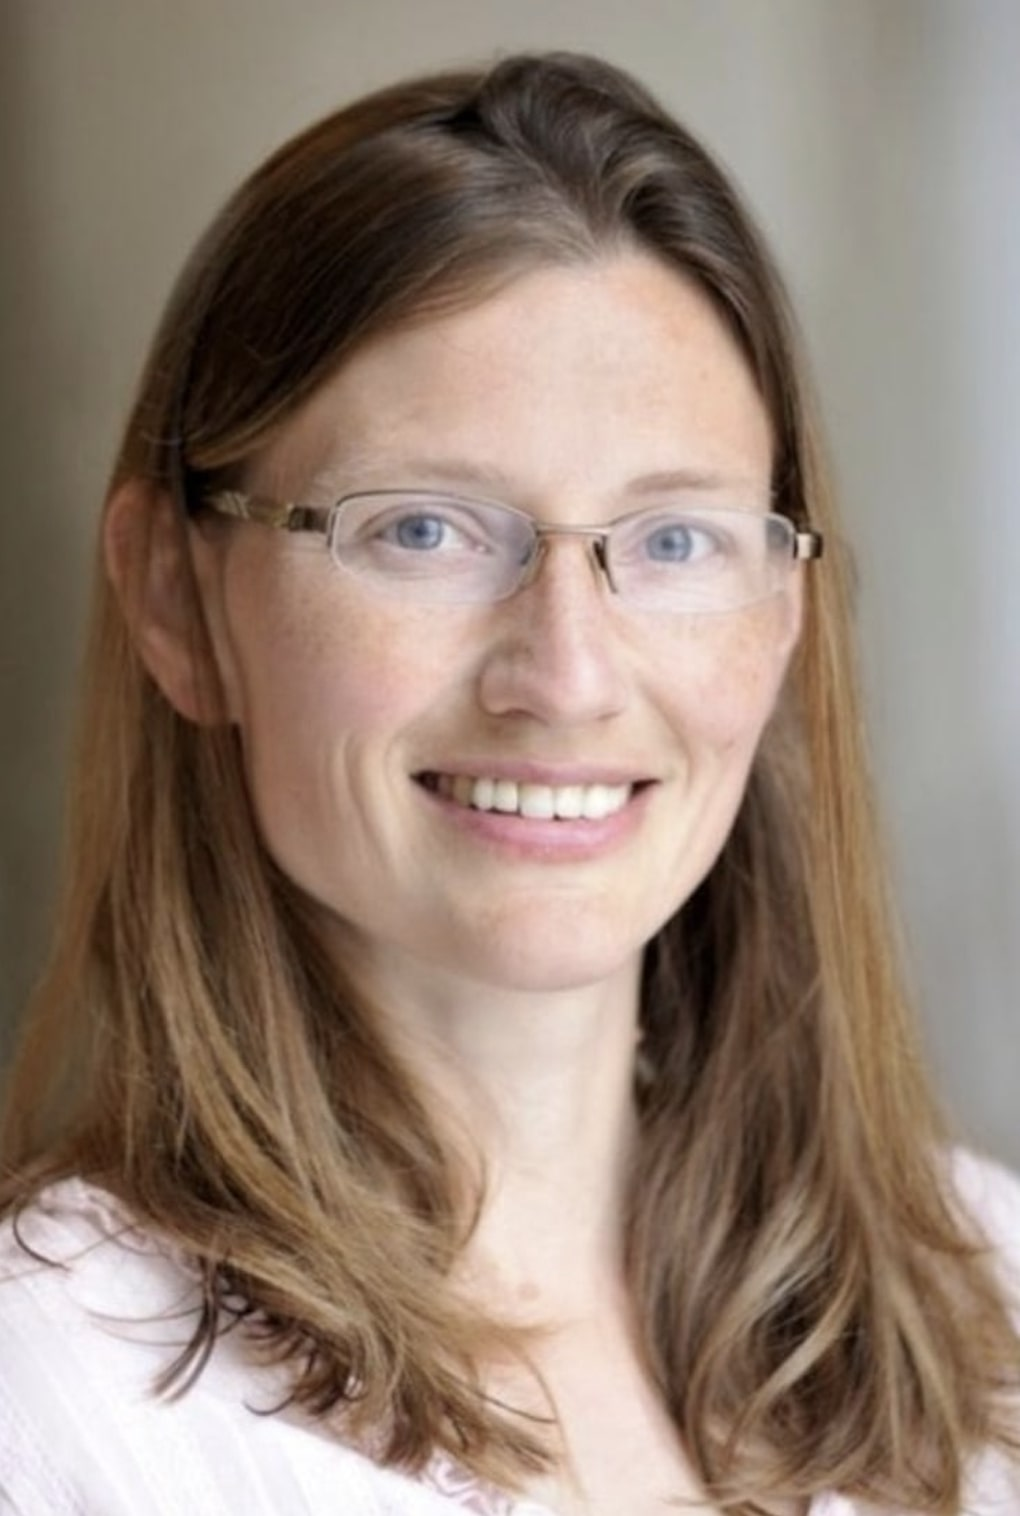
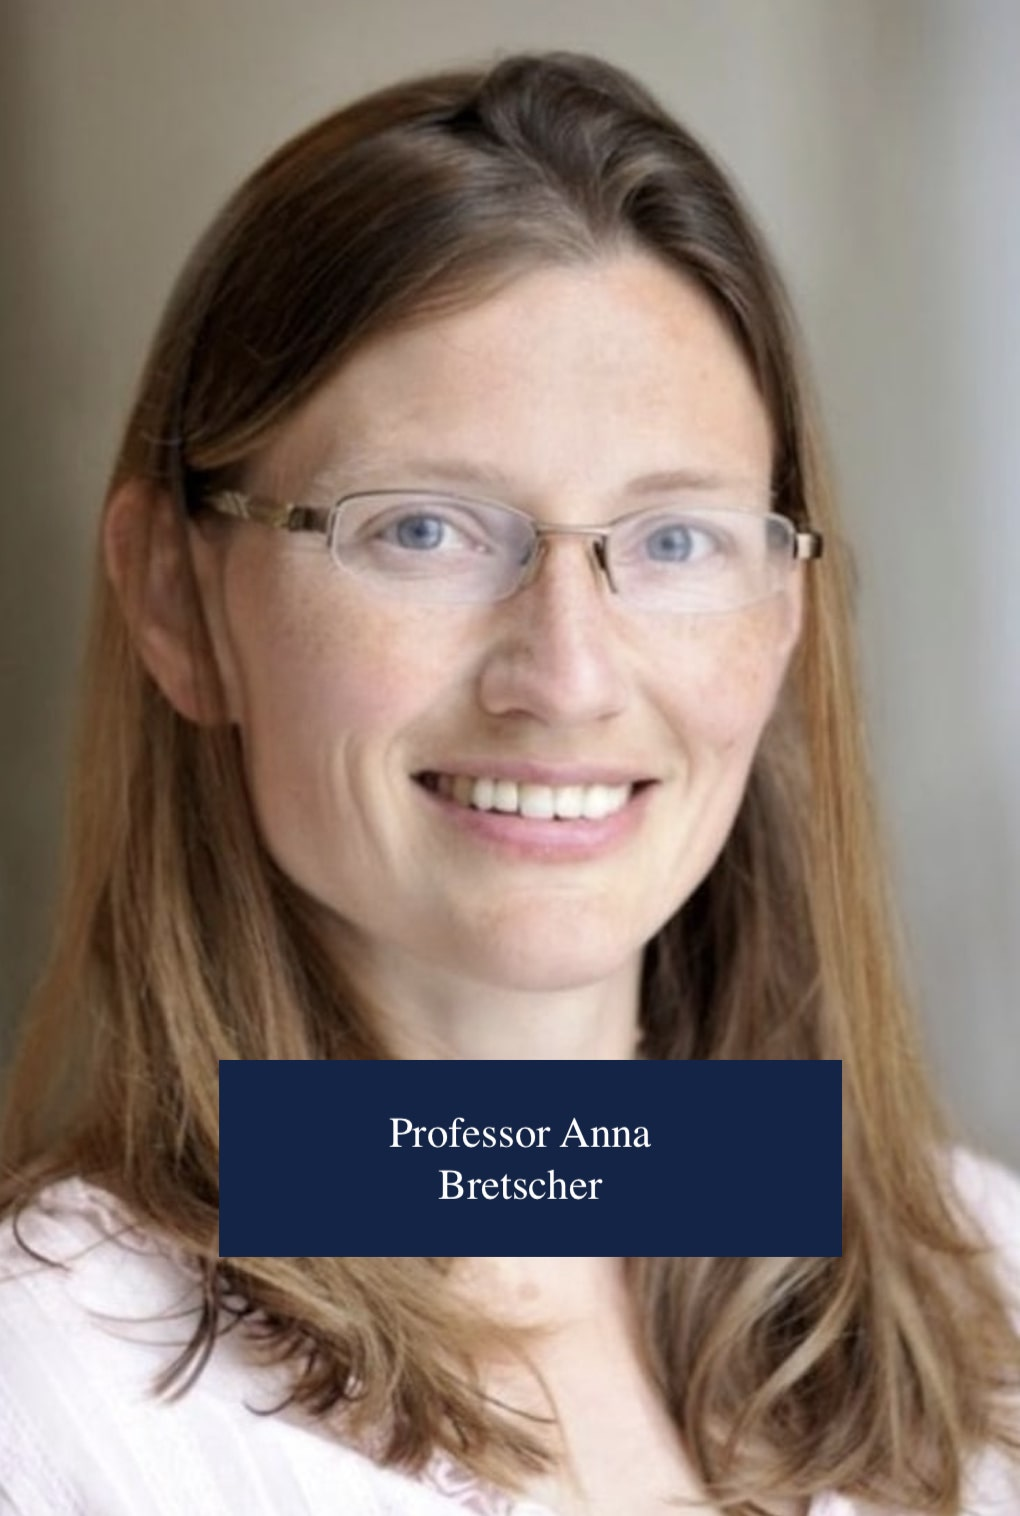
descr

Changed region(s): [[0.2127, 0.6821, 0.851, 0.8371]]

diff --git a/Assignment2/src/m.css b/Assignment2/src/m.css
@@ -128,7 +128,24 @@ body {
 }
 
 
+.div2{
+    background-color: #e3effa;
+    padding: 5px;
+    height: 600px;
+    width: 400px;
+    border-radius: 30px;
+    box-shadow: 0px 0px 10px rgba(0, 0, 0, 0.1);
+    display: inline-block;
 
+}
+
+.div2 > h1 {
+    text-align: center;
+}
+
+.div2 > p {
+    text-align: center;
+}
 
 
 

diff --git a/Assignment2/src/team.html b/Assignment2/src/team.html
@@ -46,6 +46,13 @@
 </body>
 <div>
     <section>
+        <div class="div2">
+            <h1>Professor Anna Bretscher
+            </h1>
+            <p>and TAs</p>
+
+        </div>
+
 </div>
 <footer>
     <section class = "ft-main">
